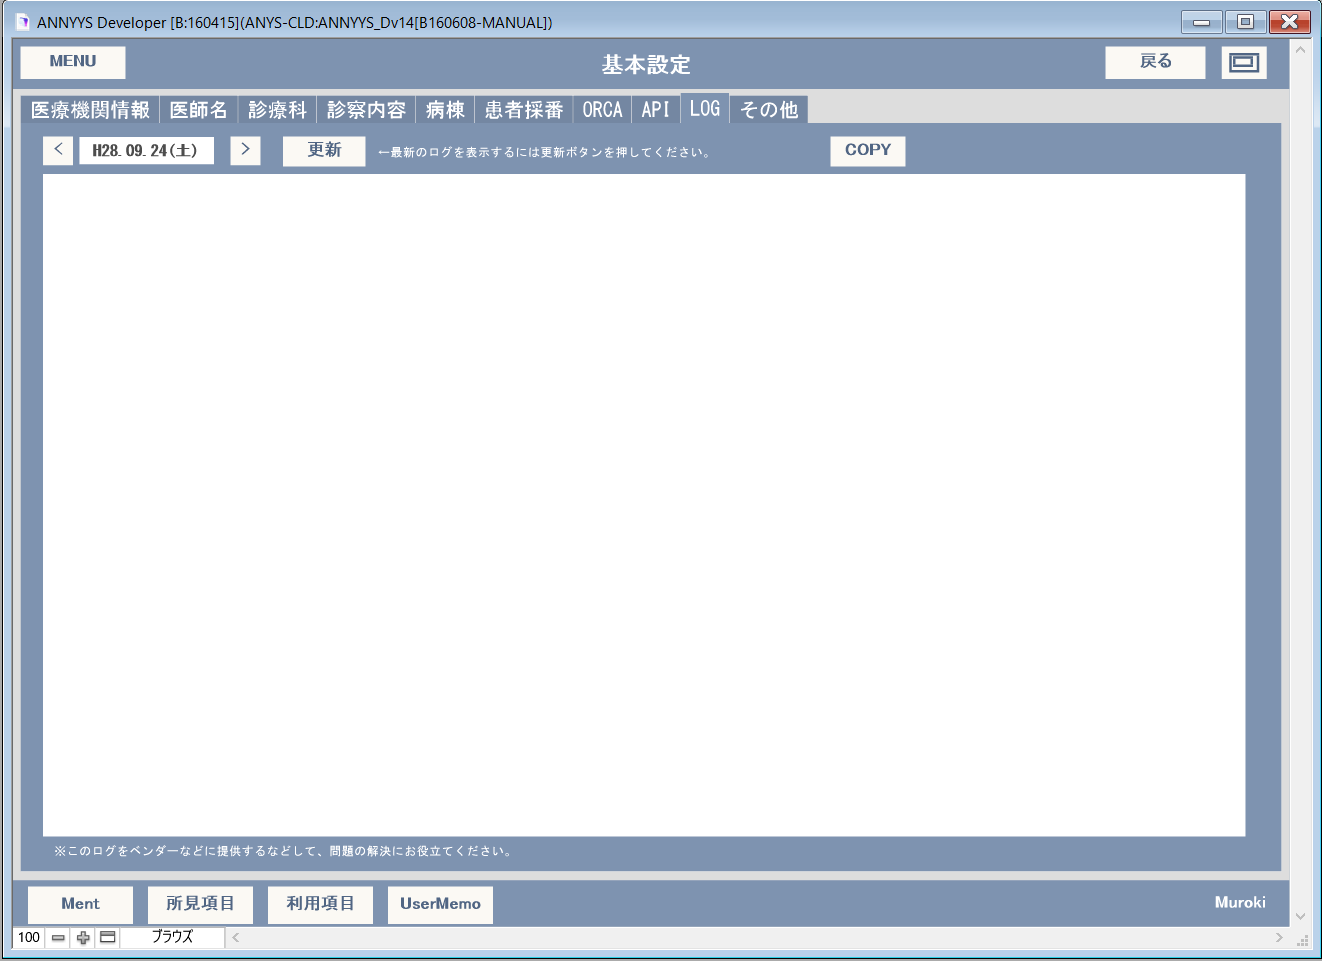
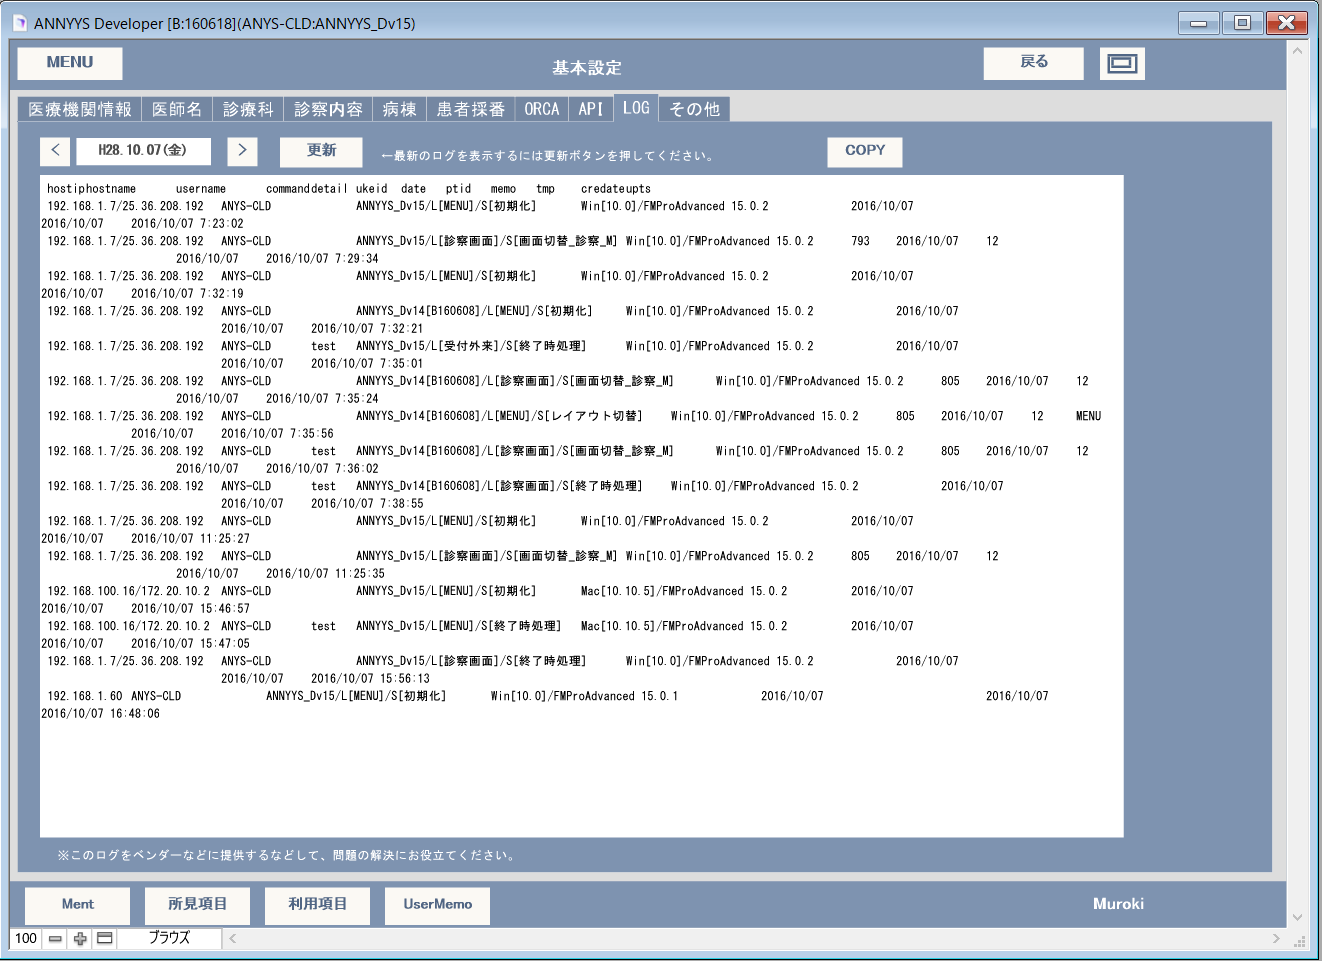
Merge origin/master
Conflicts:
	public_html/[070_000]karute.html
	public_html/[080_000]kanja.html
	public_html/[100_000]settei.html

diff --git a/public_html/[110_000]renkei.html b/public_html/[110_000]renkei.html
@@ -224,6 +224,7 @@ $(window).scroll(function () {
                         <tr><td>診療行為情報<br>病名も一緒に送信されます。</td><td>→<br>L[診察画面] B[終]<br></td><td>診療行為情報日レセのみで会計も可。</td></tr>
                         <tr><td>予約情報</td><td>→<br>L[外来受付] B[予約]確定時</td><td>予約情報<br>日レセで予約しても問題ありません。</td></tr>
                     </table>
+                    <br>
                     <p>ANNYYS_Dと日レセの連携に関する情報の関係はこのようになっています。</p>
 
                     <p>登録に関する業務（患者情報や保険・公費などの登録）は日レセ側で行うようにしてください。</p>
@@ -342,7 +343,7 @@ $(window).scroll(function () {
                     <p>会計オーダー送信後、日レセ側でまた会計処理をしていない場合
                         <strong>L[診察画面] B[終]</strong>で表示されたダイアログから[削除]を選択し一旦削除リクエストを送信します。</p>
                    
-                    <p><img class="center-block" src="images/110_000_teisei.png" alt="診療行為訂正"></p>
+                    <p><img class="center-block w50" src="images/110_000_teisei.png" alt="診療行為訂正"></p>
                     
                     <div class="f_frame">
                     <p><img class="center-block" src="images/110_000_teisei1.png" alt="診療行為訂正1"></p>
@@ -378,7 +379,7 @@ $(window).scroll(function () {
                     というメッセージがでるので「ＯＫ」を押し削除処理を完了させます。</p>
                     <p>ANNYYS_Dでは<strong>L[診察画面] B[終]</strong>で表示されたダイアログから[再送信]を選択し診療行為を送信します。</p>
                     
-                    <p><img class="center-block" src="images/110_000_teisei_22.png" alt="診療行為訂正_22"></p>
+                    <p><img class="center-block w50" src="images/110_000_teisei_22.png" alt="診療行為訂正_22"></p>
                     
                     <div class="f_frame">
                     <p><img class="center-block" src="images/110_000_teisei_23.png" alt="診療行為訂正_23"></p>
@@ -398,11 +399,17 @@ $(window).scroll(function () {
                 <!--本文-->
                 <div id="annys-tx">
                     <p>ANNYYS_Dでは基本設定に設定した処方（院内or院外）内容で日レセに情報が送信されます。たまに設定と違う方法で処方を処理したい場合はORCA側で処方内容を修正してください。</p>
+                     <div class="f_frame">
                     <p><img class="center-block" src="images/110_000_shohouhenkou.png" alt="処方変更"></p>
+                    </div><!--f_flame-->
                     <p>例）院外処方を院内処方に変更する場合</p>
+                    <div class="f_frame">
                     <p><img class="center-block" src="images/110_000_shohouhenkou0.png" alt="処方変更0"></p>
+                    </div><!--f_flame-->
                     <p>基本設定が院外なので全て院外処方で受信されています。</p>
+                    <div class="f_frame">
                     <p><img class="center-block" src="images/110_000_shohouhenkou1.png" alt="処方変更1"></p>
+                    </div><!--f_flame-->
                     <p class="padding-bottom10">院外を院内に変えるには処方の２１２の部分を２１１に変更します。これで院外処方が院内処方に変更できます。
                     院内処方を院外処方に変えるにはこの逆の操作で行えます。
                     院内処方=２１１　院外処方＝２１２　となっています。
@@ -421,13 +428,17 @@ $(window).scroll(function () {
                 <div id="annys-tx">
                     <p>ANNYYS_Dで登録した予約情報も日レセに送信されます。
                         L[外来受付] B[予約]で予約内容を登録します。ポップアップに日時・時間、診療科、などをを入力します。</p>
+                    <div class="f_frame">
                     <p><img class="center-block" src="images/110_000_yoyaku.png" alt="予約"></p>
+                    </div><!--f_flame-->
                     <p>予約完了のメッセージが表示されますので「OK」を押します。</p>
-                    <p><img class="center-block" src="images/110_000_yoyaku2.png" alt="予約2"></p>
+                    <p><img class="center-block w50" src="images/110_000_yoyaku2.png" alt="予約2"></p>
                     <p>送信された旨のメッセージが表示されますので「OK」を押します。</p>
-                    <p><img class="center-block" src="images/110_000_yoyaku3.png" alt="予約3"></p>
+                    <p><img class="center-block w50" src="images/110_000_yoyaku3.png" alt="予約3"></p>
                     <p>日レセでの予約登録画面で登録した予約内容が確認できます。</p>
+                     <div class="f_frame">
                     <p><img class="center-block" src="images/110_000_yoyaku4.png" alt="予約4"></p>
+                    </div>
                </div><!--annyy-tx-->
              </div><!--contents_wrapper-->
             </div><!--col-md-9-->

diff --git a/public_html/[100_000]settei.html b/public_html/[100_000]settei.html
@@ -275,6 +275,7 @@ $(window).scroll(function () {
                                 <p><img class="center-block" src="images/100_000_shinryouka.png" alt="診療科"></p> 
                                  </div>
                                 <p>診療科にはあらかじめ以下の３４の診療科が登録されています。</p>
+                                <br>
                                 <table border="1">
                                     <tr>
                                         <td>01	内科<br>
@@ -313,6 +314,7 @@ $(window).scroll(function () {
                                             36	リハ科<br><br><br></td>
                                     </tr>
                                 </table>
+                                <br>
                                 <p>これら診療科に設定されている2ケタの番号は決められたものがあり既に登録されていますので決して変更はしないでくさい。ただ、全部の診療科があっても利用する診療科はあって数種類だと思います。そこで必要のない診療科はリストの右にある緑色のボタンでポップアップ対象から省く事ができるようにしています。</p>
                                  <div class="f_frame">
                                 <p><img class="center-block" src="images/100_000_shinryouka1.png" alt="診療科1"></p>
@@ -344,6 +346,7 @@ $(window).scroll(function () {
                                 <p><img class="center-block" src="images/100_000_shinryounaiyou.png" alt="診療内容"></p>
                                 </div>
                                 <p>来院受付時の受付情報に対し来院目的を登録す再に利用する項目です。</p>
+                                <br>
                                 <table border="1">
                                     <tr><td>99	該当なし<br>
                                             01	診察<br>
@@ -354,6 +357,7 @@ $(window).scroll(function () {
                                             06	健康診断<br>
                                             07	予防注射</td></tr>
                                 </table>
+                                <br>
                                 <p>あらかじめこれだけの内容が登録されていますが、必要に応じポータル内のデータを追加できます。</p>
                                 <ul>
                                     <li>これらポータル内の指定内容は全て共有情報です。</li>
@@ -450,7 +454,9 @@ $(window).scroll(function () {
                                 ANNYYS：ANNYYS_D版のバージョン情報です。<br>
                                 API_PATH：連携ツールなどの配置やバックアップデータを作成する場所などローカルのＰＣ上でANNYYS_D特有の作業場所となるパスを表示しています。（変更はできません）<br>
                                 Plugin：プラグインのバージョンを表示しています。プラグインがインストールされているかどうかは「編集」>「環境設定」＞「プラグイン」で確認できます。</p>
+                               <div class="f_frame">
                                 <p><img class="center-block" src="images/100_000_api1.png" alt="API1"></p>
+                               </div>
                                 <p class="padding-bottom10">WVCheck：Webビューワで利用されているブラウザの種類とANNYYS_Dで利用しているライブラリのバージョンを確認できます。</p>
 
                             </div><!--annys-tx-->
@@ -466,6 +472,7 @@ $(window).scroll(function () {
                                  <div class="f_frame">
                                 <p><img class="center-block" src="images/100_000_log.png" alt="ログ"></p> 
                                  </div>
+                                <p>タイムスタンプ、操作した端末、操作した画面（レイアウト）とスクリプト、患者IDと日付のログがこちらに表示されます。</p>
 
                             </div><!--annys-tx-->
                         </div><!--contents_wrapper-->

diff --git a/public_html/[070_000]karute.html b/public_html/[070_000]karute.html
@@ -287,7 +287,7 @@ $(window).scroll(function () {
                                     <p><img class="center-block" src="images/070_000_gazou_nyuryoku5.png" width="1000" height="727" alt="画像入力5"></p>
                                     </div><!--f_frame-->
                                     <p>絵を書き終わったら、「選択」メニューから四角形選択を選びます。</p>
-                                    <p><img class="center-block w30" src="images/070_000_gazou_nyuryoku6.png" style="width: 30%;" alt="画像入力6"></p>
+                                    <p><img class="center-block w20" src="images/070_000_gazou_nyuryoku6.png" style="width: 20%;" alt="画像入力6"></p>
                                     <p>取込みたい場所を囲んだら画面左上の「コピー」をクリックします。</p>
                                     <div class="f_frame">
                                     <p><img class="" src="images/070_000_gazou_nyuryoku7.png" width="1000" height="727" alt="画像入力7"></p>
@@ -450,6 +450,7 @@ $(window).scroll(function () {
                                         [739230000]酸素ボンベ・小型[10Ｌ]
                                         </td></tr>
                                     </table>
+                                    <p></p>
                                     <p class="">※用法などが必要な場合ははT[用法]から適宜入力してください。</p>
                             </div><!--annys-tx-->
                         </div><!--contents_wrapper-->
@@ -614,11 +615,13 @@ $(window).scroll(function () {
                                     <p><strong>T[薬剤] B[注射]</strong>から注射薬剤を選択した場合、概ね点滴注射とみなされます。<br>
                                     点滴注射の場合、年齢や注射容量または入院・外来によって点数が違うためここで注射薬剤だけを選択するだけでもかまいません。（レセコンが自動判断できる場合。「日レセ可」）<br>
                                     診療行為欄には例として以下のように入力されます</p>
+                                    <p></p>
                                     <table border="1">
                                         <tr><td>【注射薬剤】<br>
                                         [643230298]大塚糖液２０％　２０ｍＬ[1管]
                                         </td></tr>
                                     </table>
+                                    <p></p>
 
                             </div><!--annys-tx-->
                         </div><!--contents_wrapper-->

diff --git a/public_html/[080_000]kanja.html b/public_html/[080_000]kanja.html
@@ -395,7 +395,6 @@ $(window).scroll(function () {
                                     <tr><td><img class="" style="width: 5%; margin: 3px 2%  3px 5%;" src="images/080_000_rireki2.png" alt="履歴2"></td><td class="padding-bottom20">選択レコード以後のサマリデータを作成し直します。</td></tr><br>
                                     <tr><td><img class="" style="width: 5%; margin: 3px 2% 3px 5%;" src="images/080_000_rireki3.png" alt="履歴3"></td><td class="padding-bottom20">該当レコードの診察画面を表示します。</td></tr><br>
                                     <tr><td><img class="" style="width: 5%; margin: 3px 2% 3px 5%;" src="images/080_000_rireki4.png" alt="履歴4"></td><td class="padding-bottom20">該当レコードの印刷用カルテ２号用紙を表示します。</td></tr><br>
-                                    <tr><td><img class="" style="width: 5%; margin: 3px 2% 10px 5%;" src="images/080_000_rireki5.png" alt="履歴5"></td><td class="padding-bottom20">該当レコードのサマリデータを更新します。</td></tr><br>
                             <br>
                             </div><!--annys-tx-->
                         </div><!--contents_wrapper-->

diff --git a/public_html/css/bootstrap.css b/public_html/css/bootstrap.css
@@ -7857,6 +7857,10 @@ a:hover {
         width: 30%;
     } 
     
+     .contents_wrapper .w40 {
+        width: 40%;
+    } 
+    
 }
  
 /* Mサイズ、デスクトップ : Medium Devices, Desktops */
@@ -8192,6 +8196,11 @@ a:hover {
     .contents_wrapper .float {
         float: left;
     }
+    
+    .contents_wrapper .w20 {
+        width: 20%;
+    } 
+    
     
      .contents_wrapper .w30 {
         width: 30%;
